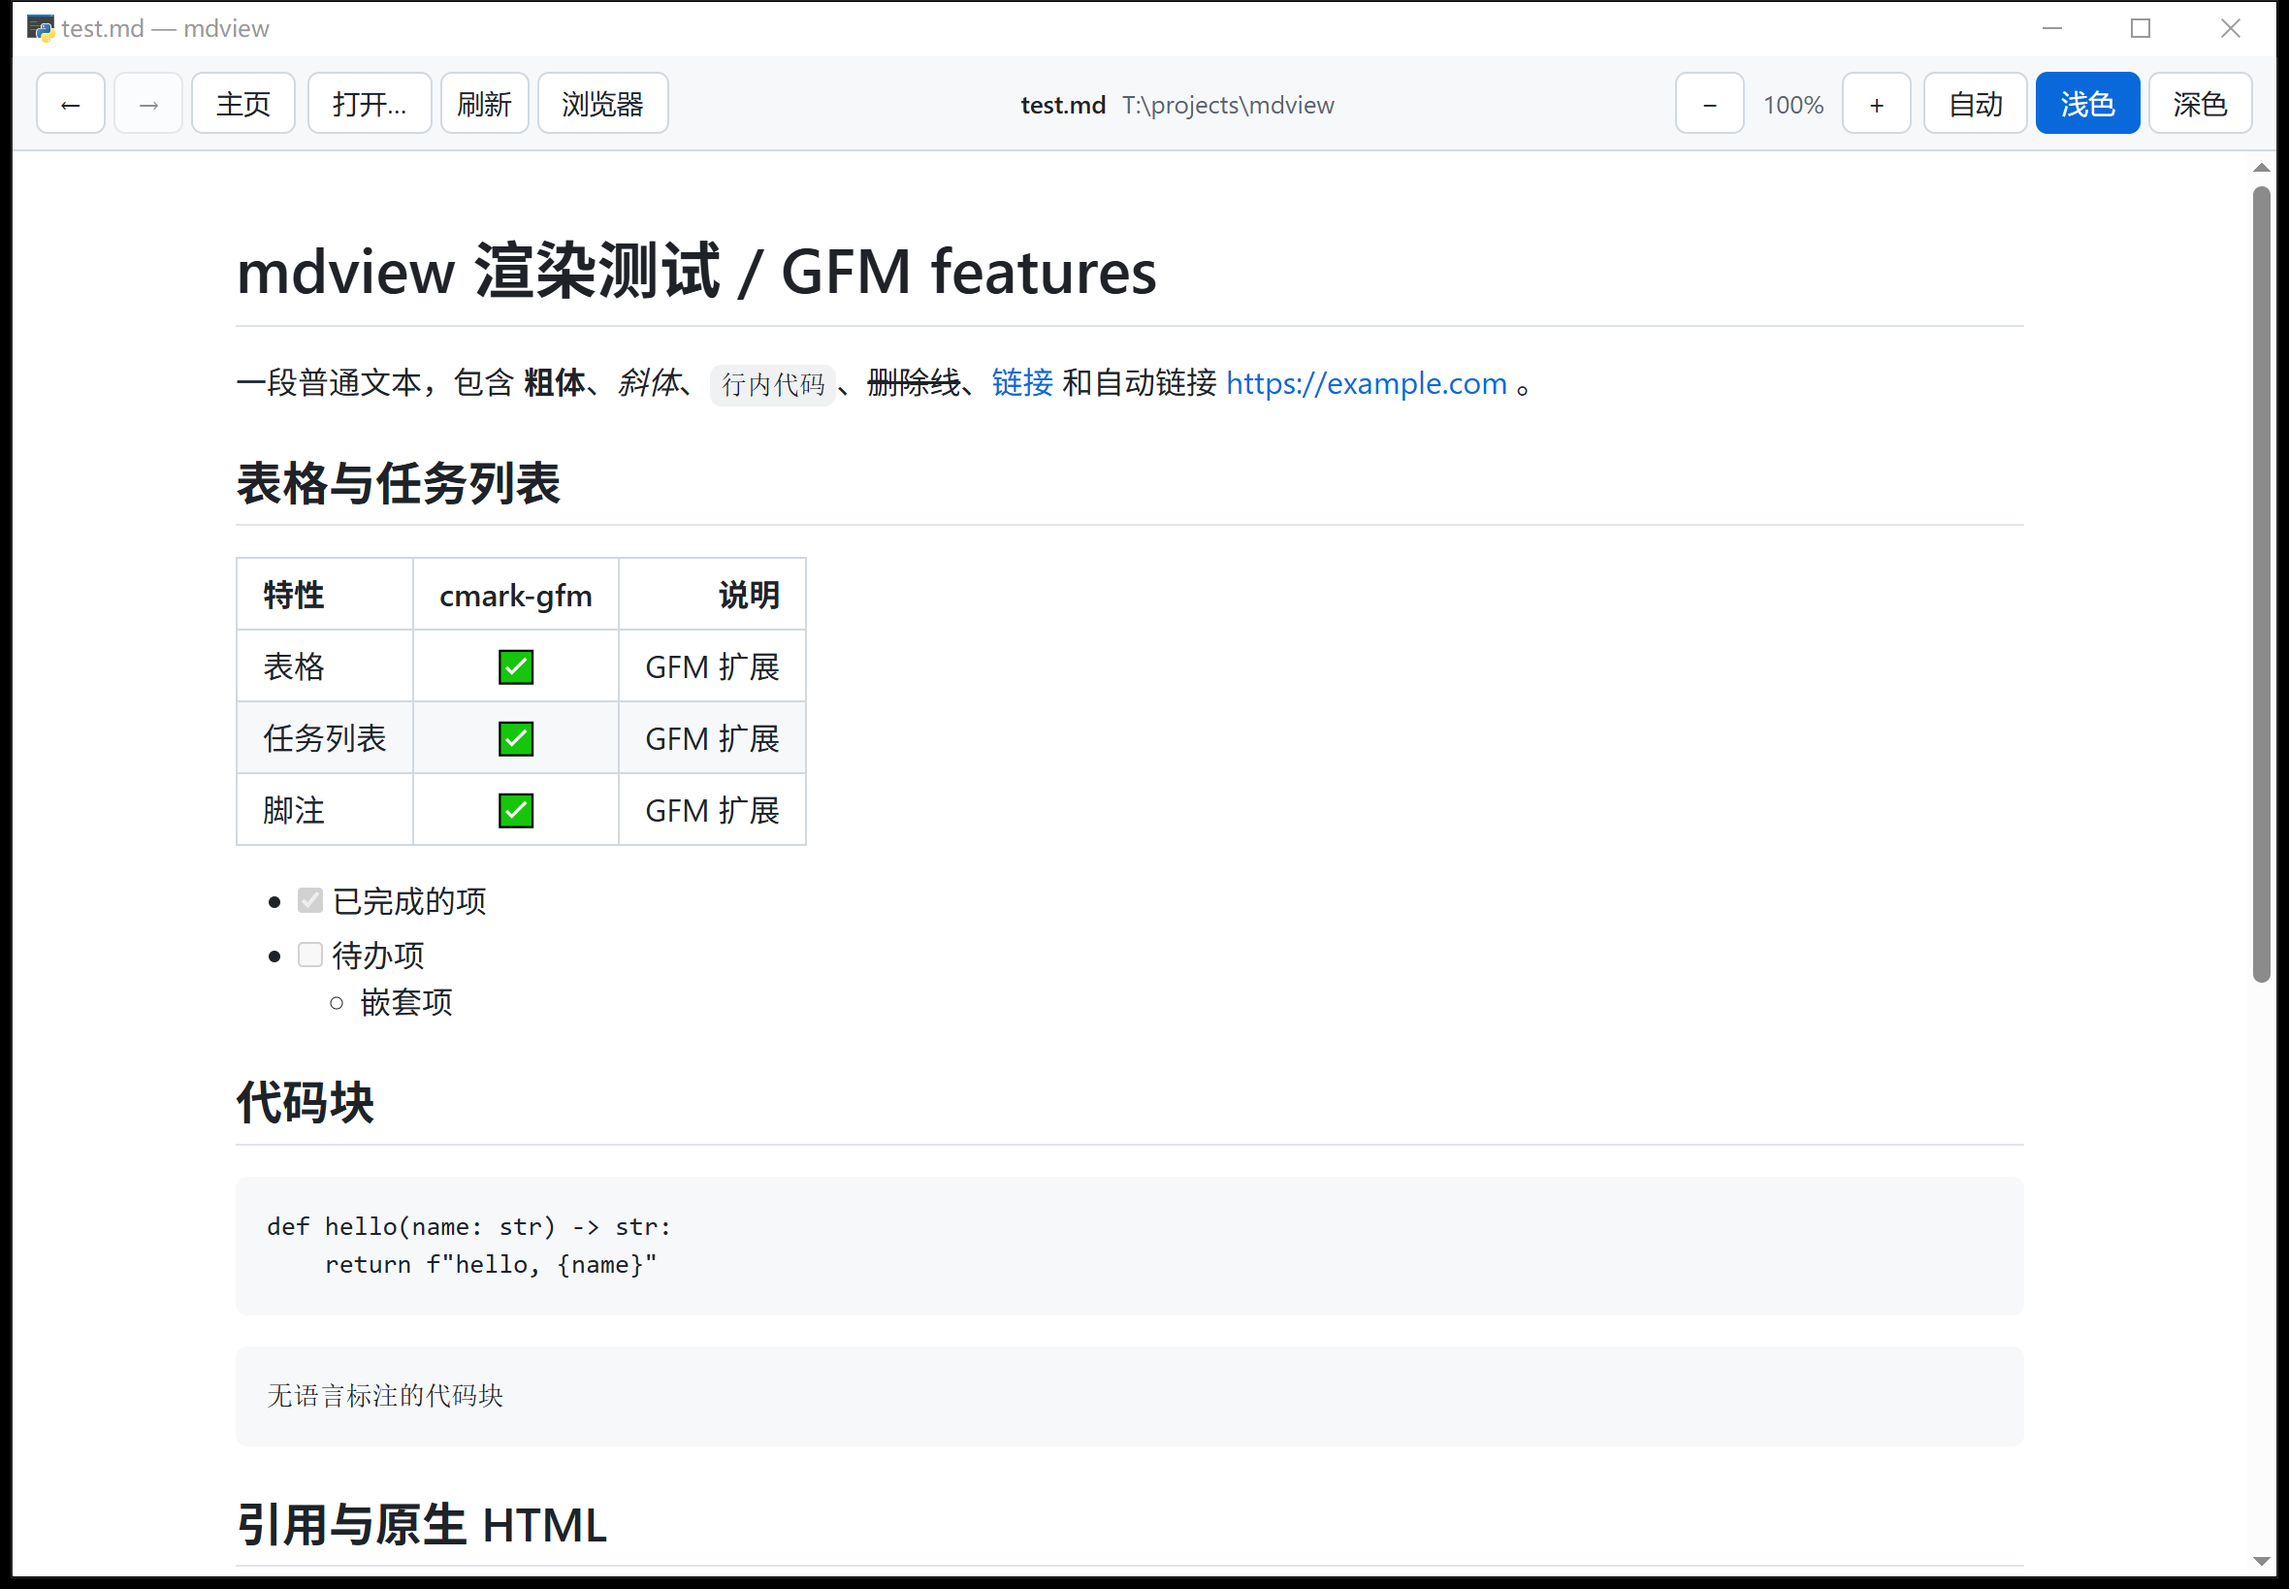
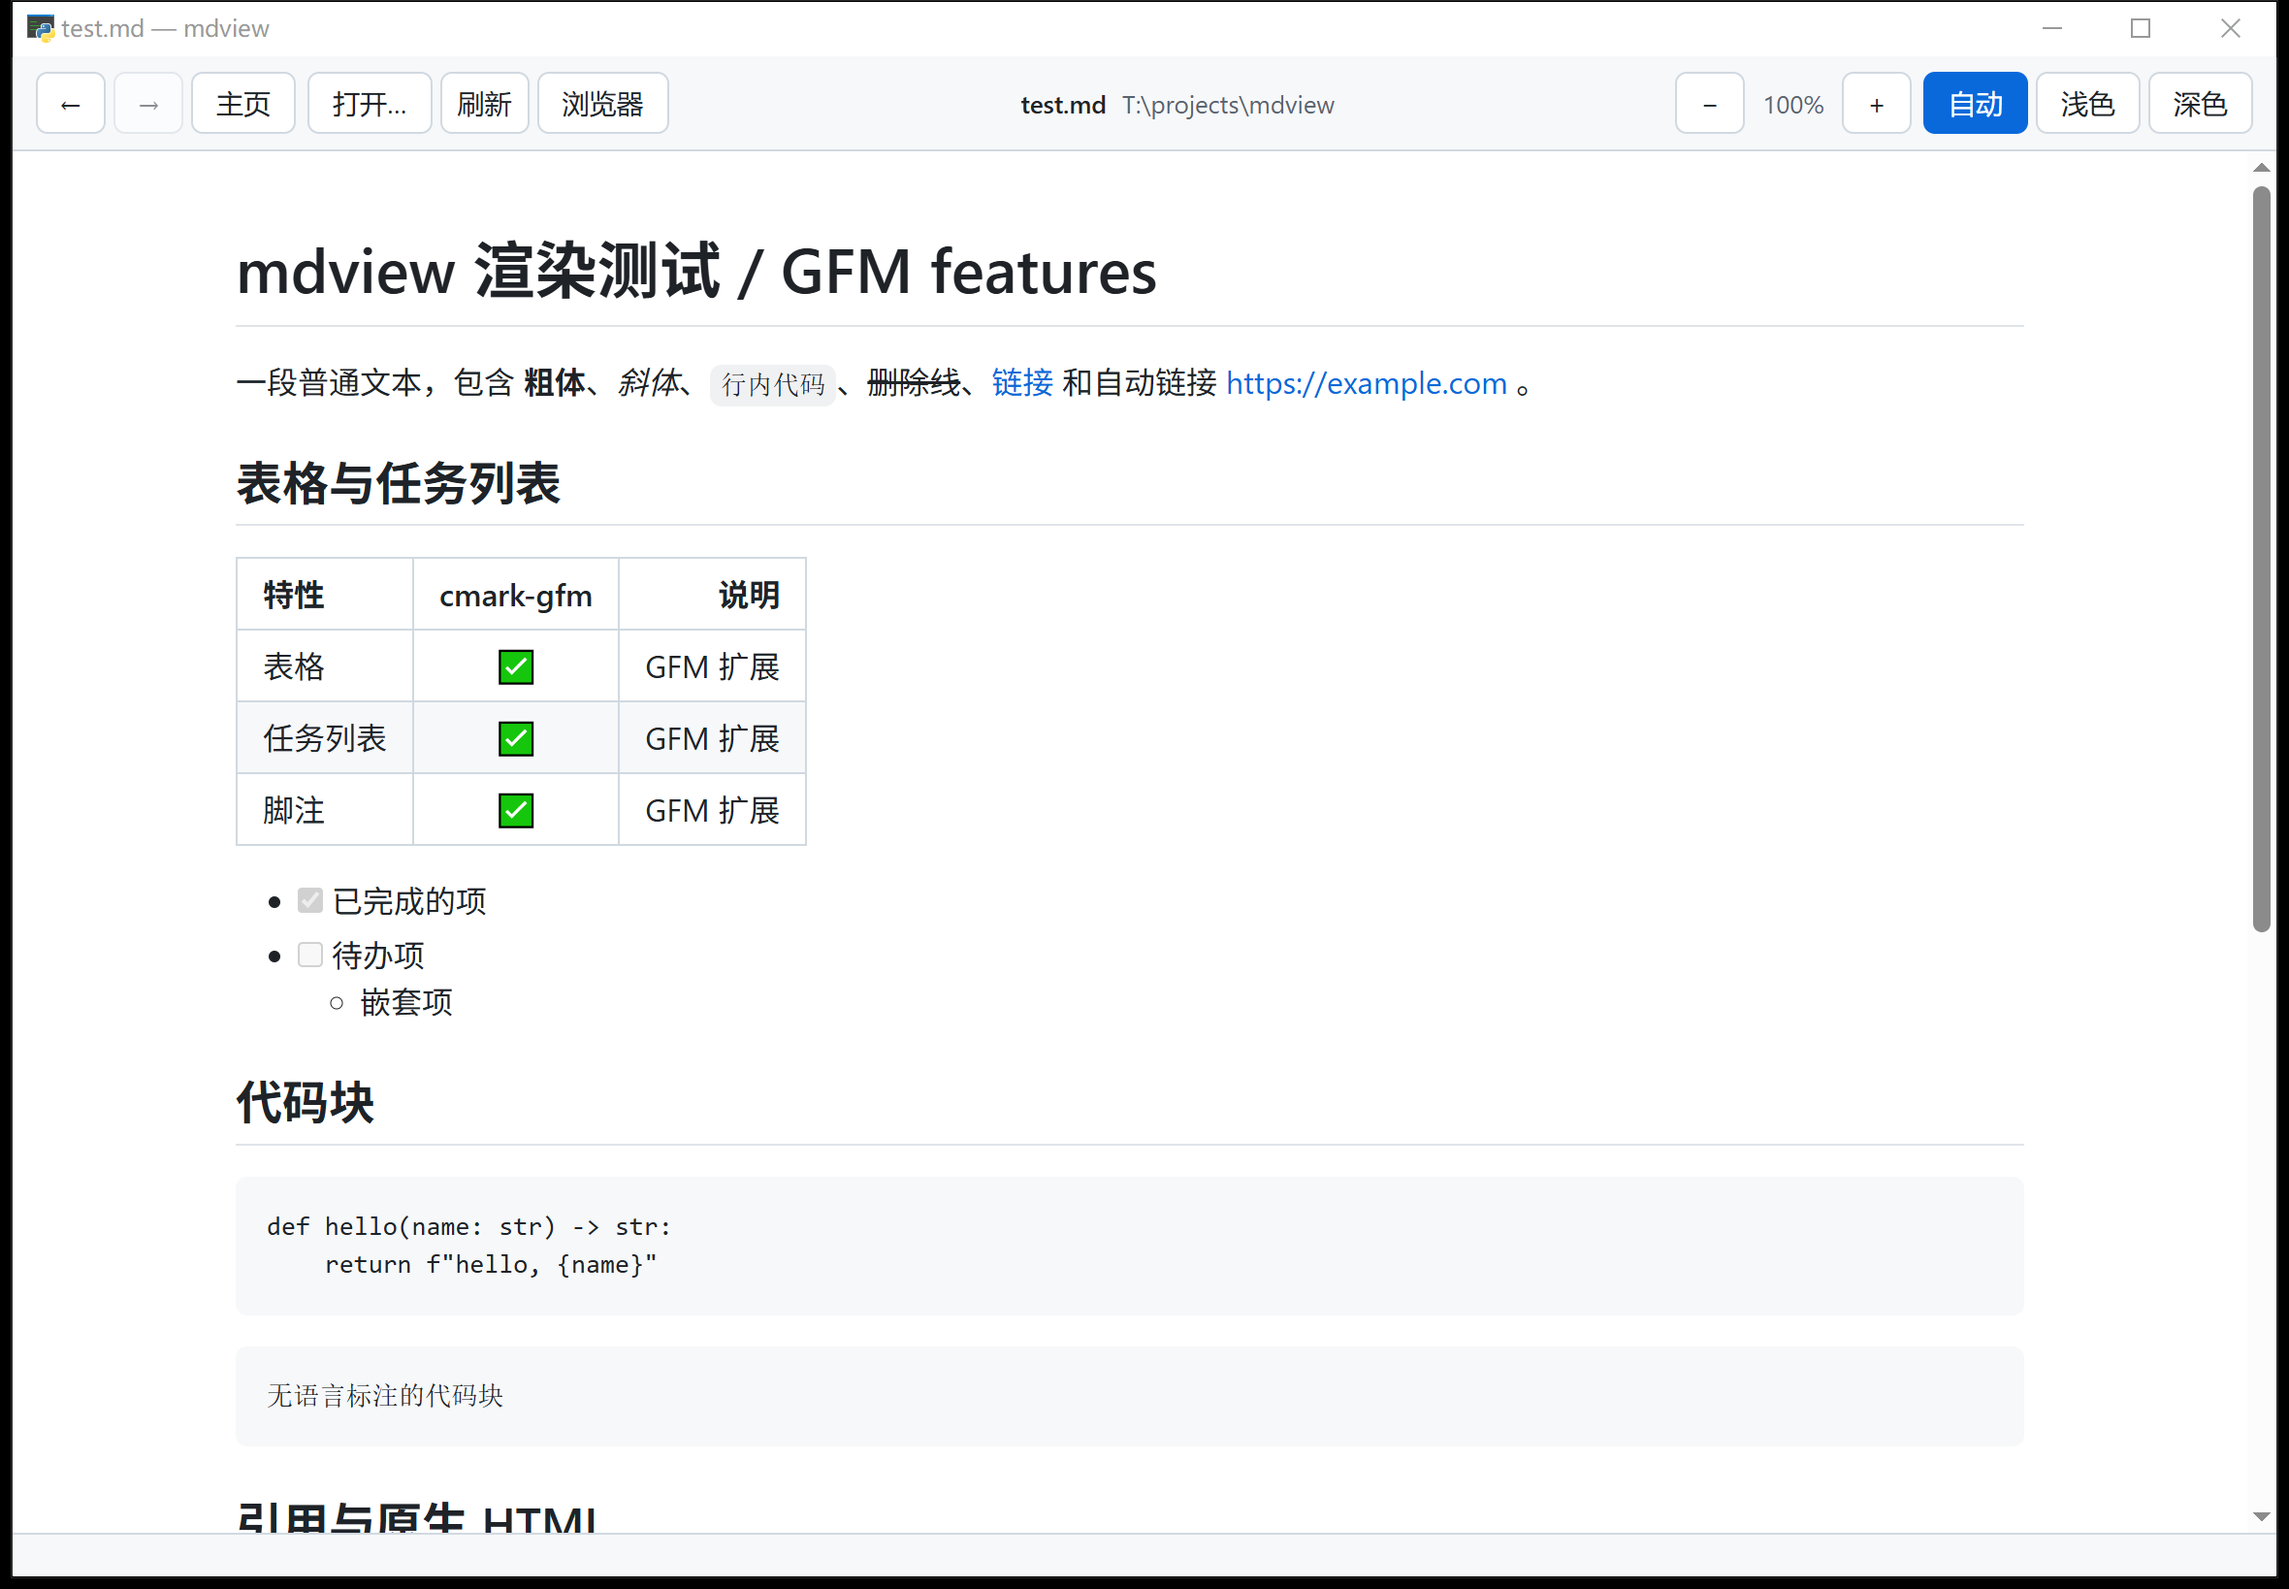
docs: 更新截图与说明，覆盖状态栏和新的导航行为
功能变了文档不同步，会让人按着旧说明操作。

Generated-By: dsh 0.1.7-rc.2

Changed region(s): [[0.8352, 0.0311, 0.9589, 0.0934], [0.9589, 0.5916, 1.0, 0.6227], [0.1547, 0.9652, 0.2165, 0.9963]]

diff --git a/README.md b/README.md
@@ -29,7 +29,7 @@
 | 控件 | 作用 | 快捷键 |
 |:-----|:-----|:-------|
 | ← / → | 在访问过的文档之间后退 / 前进 | `Alt+←` / `Alt+→` |
-| 主页 | 回到欢迎页（含最近文件列表） | `Alt+Home` |
+| 主页 | 回欢迎页；按新的一页入栈，所以后退还能回到刚才那份文档 | `Alt+Home` |
 | 打开… | 弹出文件选择框 | `Ctrl+O` |
 | 刷新 | 重新读取当前文件（文件被外部改过时用） | `F5` |
 | 浏览器 | 用系统默认浏览器打开同一份渲染结果 | `Ctrl+B` |
@@ -39,15 +39,20 @@
 主题、缩放、最近文件都记在 `%APPDATA%\mdview\config.json`，下次启动自动恢复。
 窗口会读取并兼容带 BOM 的配置文件（记事本保存的那种）。
 
-除此之外还有两点行为值得说明：
+除此之外还有几处行为值得说明：
 
 - **拖文件到窗口**：直接把 `.md` 拖进来即可打开。外部拖放其实被 WebView2 自己吃掉了，
   父窗体既收不到事件、也没法让它透传（关掉 `AllowExternalDrop` 只会变成「拒绝接收」，
   内容区光标变禁止样式），所以走的是 WebView2 官方的文件通道：页面把 File 对象交给宿主，
   宿主从中读出真实路径。加载动作放在后台线程——拖放事件本身跑在 UI 线程上，
   在那里同步等 JS 会把窗口和资源管理器一起卡死。
-- **点文档里的链接**：一律不在窗口内导航，否则目标页面会把整个 GUI 顶掉且退不回来。
-  指向本地 Markdown 的链接直接在窗口里切换，网页交给系统浏览器，其余文件交给系统默认程序。
+- **点文档里的链接**：只有鼠标左键会触发；中键和右键都不打开（右键照常弹出 WebView2 自己的
+  上下文菜单）。链接一律不在窗口内导航，否则目标页面会把整个 GUI 顶掉且退不回来：指向本地
+  Markdown 的链接直接在窗口里切换，网页交给系统浏览器，其余文件交给系统默认程序。
+- **悬停链接**：底部状态栏显示目标地址，本地文件会显示成本地路径而不是 `file://` URL。
+- **最近文件**：每次进主页都会重读配置、剔除已经不存在的路径，所以同时开着两个实例时，
+  各自打开过的文件都会出现在对方的主页列表里；落盘时也会先合并磁盘上的现有条目。
+- **历史栈**：上限 100 条，同一页不重复入栈，从中间岔开时会丢弃后面的分支。
 
 ## 高分辨率屏
 
